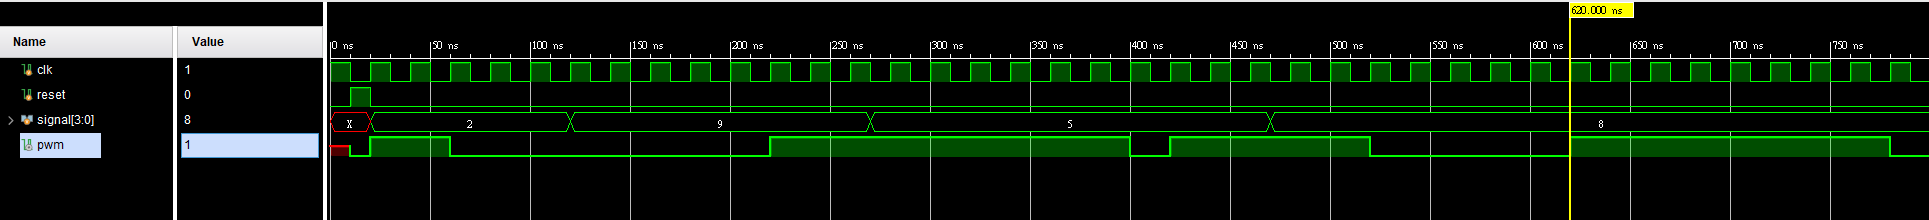
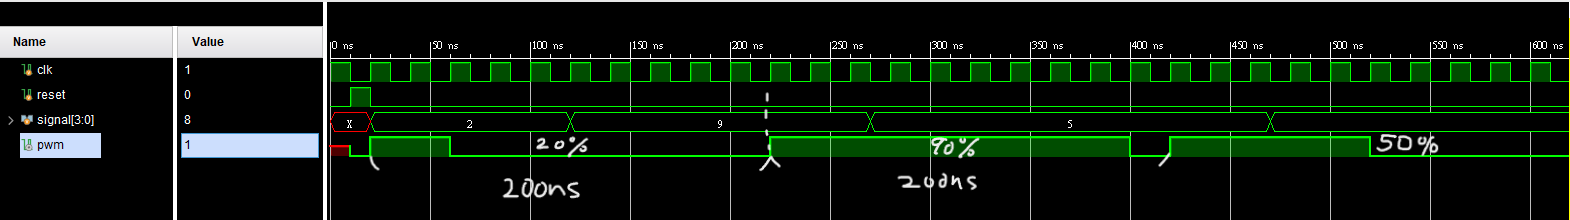
Q2.3 final

diff --git a/Q2.3/README.md b/Q2.3/README.md
@@ -2,8 +2,57 @@
 ![Question](images/Question.png)
 ### 設計一個PWM產生器 
 ### 輸入為1時 Duty Cycle 10% 輸入為2時 Duty Cycle 20% 以此類推 
-![code](images/code.png)
-### 僅以重製時的輸入來決定後續的輸出
-![testbench](images/testbench.png)
+```verilog
+always @(posedge clk or posedge reset) begin
+    if (reset)begin
+        counter <= 0;
+        current_state <= 0;
+        flag <= 0;
+        end
+    
+    計數到10或重置時
+    else if (counter == 9 || flag == 0)begin
+        counter <= 0;
+        current_state <= signal;
+        flag <= 1;
+        end 
+    else 
+        counter <= counter +1;
+end
 
+判斷是否輸出
+always @(*) begin
+    if (counter < current_state)
+        pwm = 1;
+    else
+        pwm = 0;
+end
+```
+### Testbench
+```verilog
+    initial begin
+        clk = 1;
+        reset = 0;
+    end
+    
+    initial begin
+        #10 reset = 1;
+        #10 reset = 0;
+        
+        signal = 2; 
+        #100;
+        
+        signal = 9;
+        #150
+        
+        signal = 5; 
+        #200;
+    
+        signal = 8; 
+        #200;
+    end
+```
+![behavioral2](images/behavioral2.png)
+
+###  如果中途給別的輸入
 ![behavioral](images/behavioral.png)
